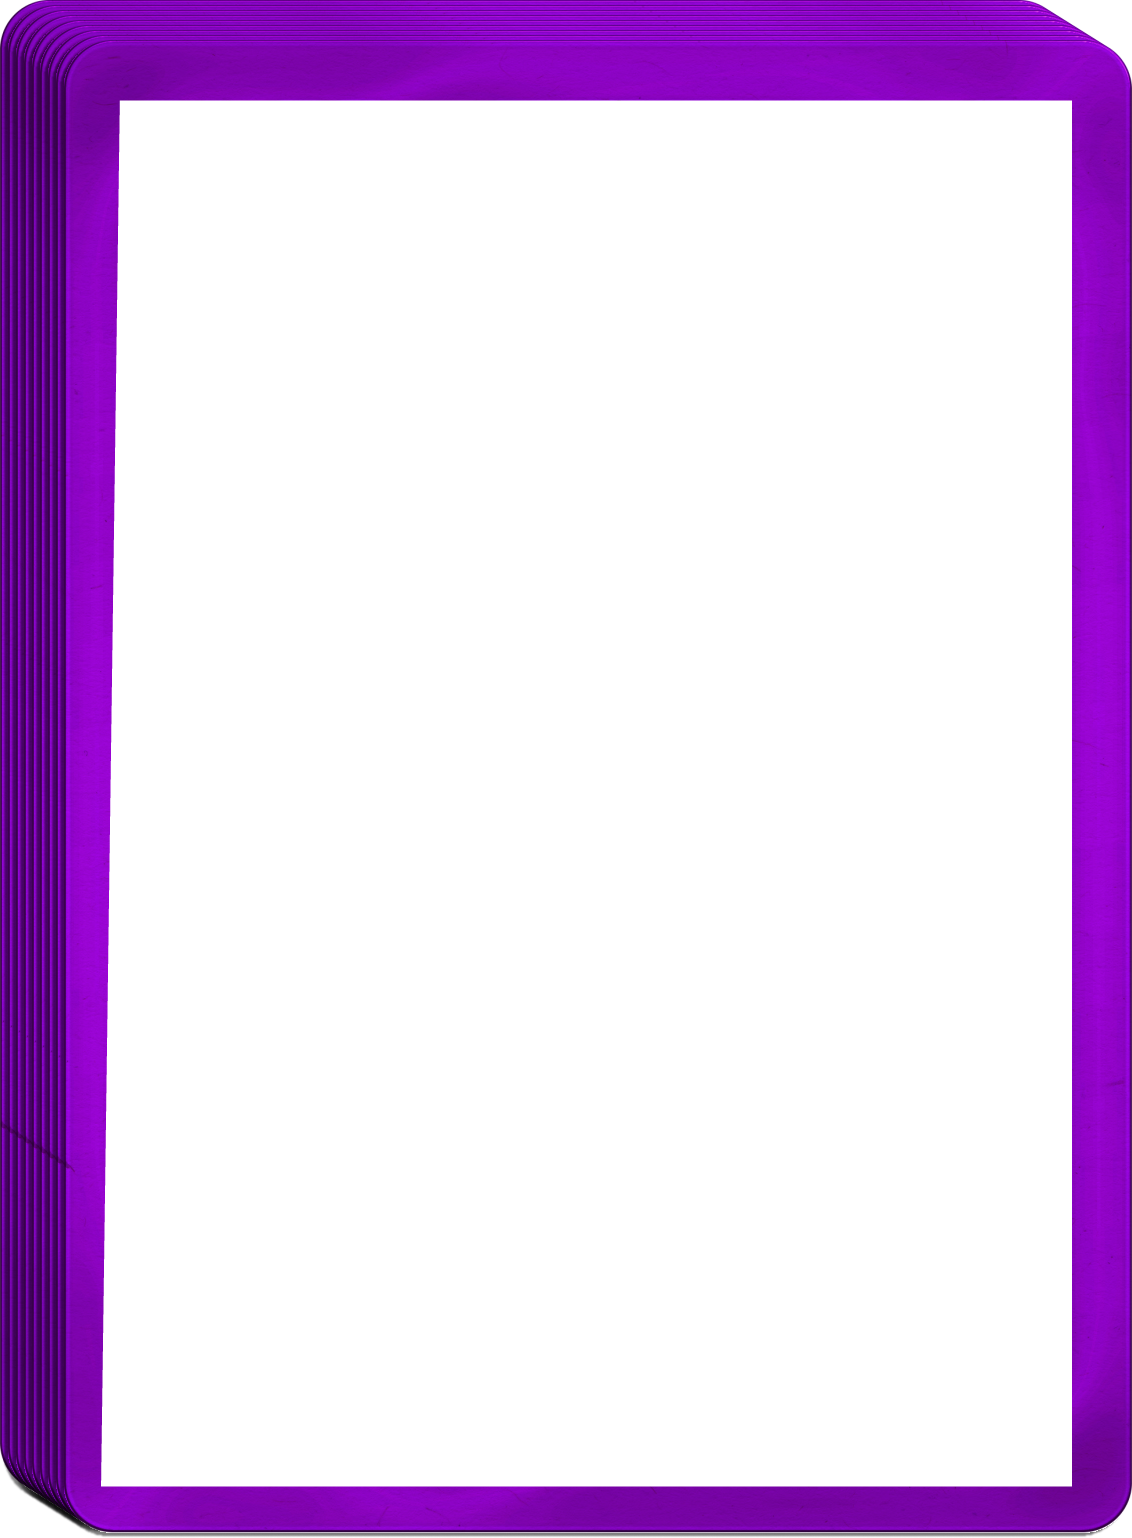
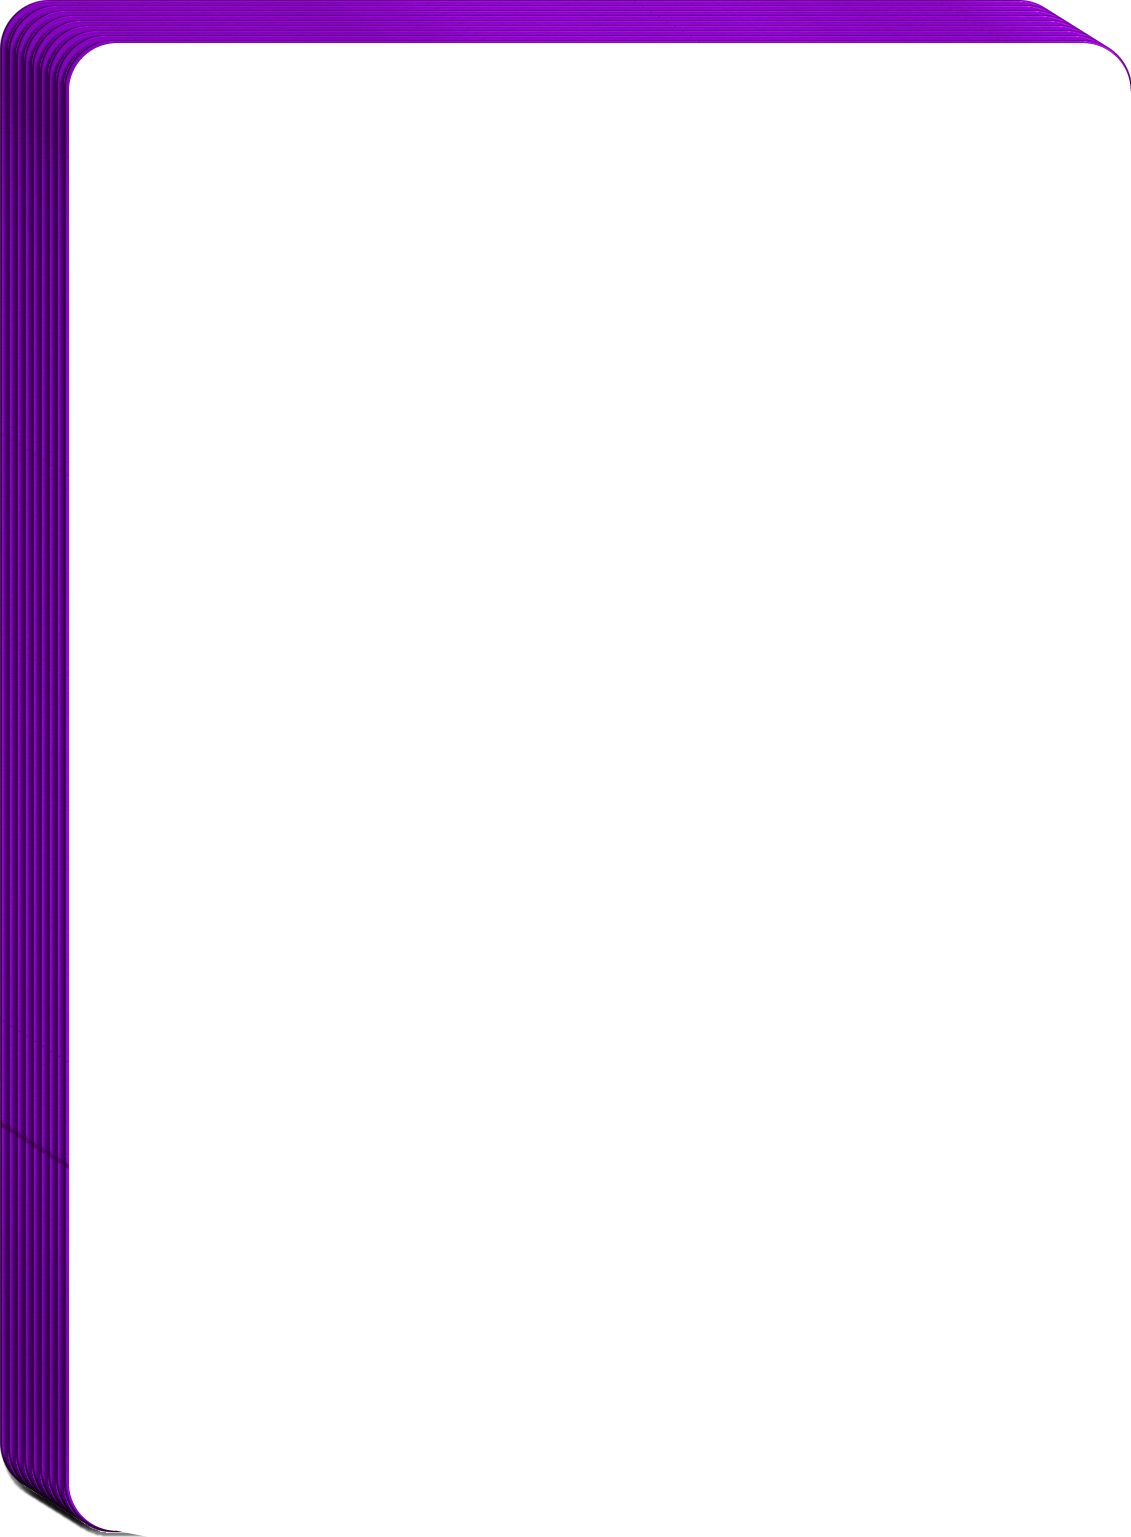
Remove card rotation button and fade out stack on interaction

Changed region(s): [[0.0309, 0.0, 1.0, 1.0], [0.0, 0.9369, 0.0309, 0.9681]]

diff --git a/src/components/CardModel3D/index.tsx b/src/components/CardModel3D/index.tsx
@@ -1,7 +1,8 @@
 import React, { useState, useCallback, useMemo } from 'react'
 import styled, { css } from 'styled-components'
+import { useSpring, animated } from 'react-spring'
 
-import { CardDisplaySelector, CardFullscreenSelector } from '@/components/CardSelector'
+import { CardDisplaySelector, CardFullscreenSelector } from './Selector'
 import Card from './Card'
 import useWindowSize from '@/hooks/useWindowSize'
 
@@ -15,14 +16,14 @@ const CardWrapper = styled.div<{ stacked: boolean; smallWidth?: number }>`
     stacked &&
     `
       transform: scale(0.97) translate(4.3%,1.5%) rotate(3deg);
-      padding-right: 24px;
+      margin-right: 24px;
   `}
 
   ${({ theme, stacked, smallWidth }) => theme.media.small`
     ${
       stacked &&
       `
-        padding-right: 0;
+        margin-right: 0;
         height: unset;
       `
     }
@@ -145,7 +146,6 @@ const StackImageTop = styled.img`
 interface CardModel3DProps extends React.HTMLAttributes<HTMLDivElement> {
   videoUrl: string
   pictureUrl: string
-  rotatingVideoUrl: string
   backPictureUrl: string
   scarcityName: string
   stacked?: boolean
@@ -153,21 +153,19 @@ interface CardModel3DProps extends React.HTMLAttributes<HTMLDivElement> {
 
 export default function CardModel3D({
   videoUrl,
-  rotatingVideoUrl,
   pictureUrl,
   backPictureUrl,
   scarcityName,
   stacked = false,
   ...props
 }: CardModel3DProps) {
-  const [cardModelDisplayMode, setCardModelDisplayMode] = useState<'front' | 'back' | 'rotate'>('front')
+  const [revealed, setRevealed] = useState(true)
   const [fullscreen, setFullscreen] = useState(false)
 
-  const onBackSelected = useCallback(() => setCardModelDisplayMode('back'), [setCardModelDisplayMode])
-  const onFrontSelected = useCallback(() => setCardModelDisplayMode('front'), [setCardModelDisplayMode])
-  const onRotateSelected = useCallback(() => setCardModelDisplayMode('rotate'), [setCardModelDisplayMode])
+  const reveal = useCallback(() => setRevealed(true), [])
+  const hide = useCallback(() => setRevealed(false), [])
 
-  const toggleFullscreen = useCallback(() => setFullscreen(!fullscreen), [setFullscreen, fullscreen])
+  const toggleFullscreen = useCallback(() => setFullscreen(!fullscreen), [fullscreen])
 
   stacked = stacked && !fullscreen
 
@@ -176,31 +174,29 @@ export default function CardModel3D({
   const cardWidth = useMemo(() => (windowSize.width ?? 0) * 0.72, [windowSize.width])
   const stackHeight = useMemo(() => cardWidth * 1.39, [cardWidth])
 
+  // spring
+  const [styles, api] = useSpring(() => ({ stackOpacity: 1, config: { mass: 3, tension: 500, friction: 50 } }))
+
+  // card callbacks
+  const onRest = useCallback(() => api({ stackOpacity: +revealed }), [api, revealed])
+  const onStart = useCallback(() => api({ stackOpacity: 0 }), [api])
+
   return (
     <CardVisualsWrapper fullscreen={fullscreen} scarcityName={scarcityName} {...props}>
       {stacked && (
-        <CardsStack smallHeight={stackHeight}>
+        <CardsStack smallHeight={stackHeight} as={animated.div} style={{ opacity: styles.stackOpacity }}>
           <img src={`/assets/${scarcityName.toLowerCase()}-stack.png`} />
           <StackImageTop src={pictureUrl} />
         </CardsStack>
       )}
       {fullscreen && <StyledClose onClick={toggleFullscreen} />}
 
-      {(cardModelDisplayMode === 'front' || cardModelDisplayMode === 'back') && (
-        <CardWrapper stacked={stacked} smallWidth={cardWidth}>
-          <Card scarcityName={scarcityName} videoUrl={videoUrl} revealed={cardModelDisplayMode === 'front'} />
-        </CardWrapper>
-      )}
+      <CardWrapper stacked={stacked} smallWidth={cardWidth}>
+        <Card scarcityName={scarcityName} videoUrl={videoUrl} revealed={revealed} onStart={onStart} onRest={onRest} />
+      </CardWrapper>
 
-      {cardModelDisplayMode === 'rotate' && <video src={rotatingVideoUrl} playsInline loop autoPlay muted />}
+      <StyledCardDisplaySelector pictureUrl={pictureUrl} backPictureUrl={backPictureUrl} reveal={reveal} hide={hide} />
 
-      <StyledCardDisplaySelector
-        pictureUrl={pictureUrl}
-        backPictureUrl={backPictureUrl}
-        onBackSelected={onBackSelected}
-        onFrontSelected={onFrontSelected}
-        onRotateSelected={onRotateSelected}
-      />
       {!fullscreen && <StyledCardFullscreenSelector toggleFullscreen={toggleFullscreen} />}
     </CardVisualsWrapper>
   )

diff --git a/src/pages/card/[cardModelSlug]/[serialNumber].tsx b/src/pages/card/[cardModelSlug]/[serialNumber].tsx
@@ -78,7 +78,6 @@ const QUERY_CARD = gql`
       cardModel {
         id
         videoUrl
-        rotatingVideoUrl
         pictureUrl(derivative: "width=1024")
         season
         youtubePreviewId
@@ -103,11 +102,7 @@ export default function CardBreakout() {
   const cardSlug = `${cardModelSlug}-${serialNumber}`
 
   const cardQuery = useQuery(QUERY_CARD, { variables: { slug: cardSlug }, skip: !cardSlug })
-  const card =
-    cardQuery.data?.card ??
-    JSON.parse(
-      '{"id":"6342d1db63a593c264ccac1a","serialNumber":173,"inTransfer":false,"inOfferCreation":false,"inOfferCancelation":false,"inOfferAcceptance":false,"owner":{"user":{"slug":"t6","username":"t6","profile":{"pictureUrl":"https://assets.rules.art/eyJidWNrZXQiOiJydWxlc2xhYnMtaW1hZ2VzIiwia2V5IjoidXNlcnMvZGVmYXVsdC1hdmF0YXItMi5qcGciLCJlZGl0cyI6eyJyZXNpemUiOnsid2lkdGgiOjEyOCwiZml0IjoiY29udGFpbiJ9fX0=","__typename":"UserProfile"},"__typename":"User"},"__typename":"Owner"},"cardModel":{"id":"62bd73b32ecd6ab6cf1e6543","videoUrl":"https://videos.rules.art/mp4/zinee-season-1-platinium.mp4","rotatingVideoUrl":"https://videos.rules.art/mp4/3d/zinee-season-1-platinium.mp4","pictureUrl":"https://assets.rules.art/eyJidWNrZXQiOiJydWxlc2xhYnMtaW1hZ2VzIiwia2V5IjoiY2FyZC1tb2RlbHMvemluZWUtc2Vhc29uLTEtcGxhdGluaXVtLmpwZyIsImVkaXRzIjp7InJlc2l6ZSI6eyJ3aWR0aCI6MTAyNCwiZml0IjoiY29udGFpbiJ9fX0=","season":1,"youtubePreviewId":"P_J3py6uTAE","artist":{"displayName":"Zinée","user":null,"__typename":"Artist"},"scarcity":{"name":"Platinium","maxSupply":350,"__typename":"Scarcity"},"__typename":"CardModel"},"__typename":"Card"}'
-    )
+  const card = cardQuery.data?.card
 
   const backPictureUrl = useCardsBackPictureUrl(512)
 
@@ -145,7 +140,6 @@ export default function CardBreakout() {
       <MainSection size="sm">
         <CardModel3D
           videoUrl={card.cardModel.videoUrl}
-          rotatingVideoUrl={card.cardModel.rotatingVideoUrl}
           pictureUrl={card.cardModel.pictureUrl}
           backPictureUrl={backPictureUrl}
           scarcityName={card.cardModel.scarcity.name}

diff --git a/src/components/CardModel3D/Selector.tsx b/src/components/CardModel3D/Selector.tsx
@@ -4,7 +4,6 @@ import styled from 'styled-components'
 import Column from '@/components/Column'
 import { RowCenter } from '@/components/Row'
 
-import Spin from '@/images/spin.svg'
 import Expand from '@/images/expand.svg'
 
 const StyledCardDisplaySelector = styled(Column)`
@@ -29,30 +28,19 @@ const StyledCardDisplaySelector = styled(Column)`
 interface CardDisplaySelectorProps extends React.HTMLAttributes<HTMLDivElement> {
   pictureUrl: string
   backPictureUrl: string
-  onFrontSelected: () => void
-  onBackSelected: () => void
-  onRotateSelected: () => void
+  reveal: () => void
+  hide: () => void
 }
 
-export function CardDisplaySelector({
-  pictureUrl,
-  backPictureUrl,
-  onFrontSelected,
-  onBackSelected,
-  onRotateSelected,
-  ...props
-}: CardDisplaySelectorProps) {
+export function CardDisplaySelector({ pictureUrl, backPictureUrl, reveal, hide, ...props }: CardDisplaySelectorProps) {
   return (
     <StyledCardDisplaySelector {...props}>
-      <div onClick={onFrontSelected}>
+      <div onClick={reveal}>
         <img src={pictureUrl} />
       </div>
-      <div onClick={onBackSelected}>
+      <div onClick={hide}>
         <img src={backPictureUrl} />
       </div>
-      <RowCenter onClick={onRotateSelected} justify="center">
-        <Spin />
-      </RowCenter>
     </StyledCardDisplaySelector>
   )
 }

diff --git a/src/components/CardModel3D/Card.tsx b/src/components/CardModel3D/Card.tsx
@@ -105,18 +105,25 @@ interface CardProps {
   videoUrl: string
   revealed: boolean
   width?: number
+  onStart?: () => void
+  onRest?: () => void
 }
 
-export default function Card({ videoUrl, width, revealed }: CardProps) {
+export default function Card({ videoUrl, width, revealed, onStart, onRest }: CardProps) {
   // get back picture
   const backPictureUrl = useCardsBackPictureUrl(512)
 
   // react spring
-  const [styles, api] = useSpring(() => ({
-    ...INITIAL_SPRING_VALUES,
-    rotation: [0, revealed ? 0 : 180],
-    config: { mass: 5, tension: 200, friction: 30 },
-  }))
+  const [styles, api] = useSpring(
+    () => ({
+      ...INITIAL_SPRING_VALUES,
+      rotation: [0, revealed ? 0 : 180],
+      config: { mass: 5, tension: 200, friction: 30 },
+      onStart,
+      onRest,
+    }),
+    [onRest, onStart]
+  )
 
   // onPointerMove
   const onPointerMove = useCallback(
@@ -277,7 +284,7 @@ export default function Card({ videoUrl, width, revealed }: CardProps) {
       <CardRotator
         as={animated.div}
         style={{ transform: styles.rotation.to(rotationInterpolation) }}
-        onPointerMove={onPointerMove}
+        onMouseMove={onPointerMove}
         onPointerLeave={onPointerLeave}
         onTouchMove={onPointerMove}
       >

diff --git a/src/pages/card/[cardModelSlug].tsx b/src/pages/card/[cardModelSlug].tsx
@@ -52,7 +52,6 @@ const QUERY_CARD_MODEL = gql`
       id
       pictureUrl(derivative: "width=1024")
       videoUrl
-      rotatingVideoUrl
       lowestAsk
       averageSale
       youtubePreviewId
@@ -100,7 +99,6 @@ export default function CardModelPage() {
       <MainSection size="sm">
         <CardModel3D
           videoUrl={cardModel.videoUrl}
-          rotatingVideoUrl={cardModel.rotatingVideoUrl}
           pictureUrl={cardModel.pictureUrl}
           backPictureUrl={backPictureUrl}
           scarcityName={cardModel.scarcity.name}
